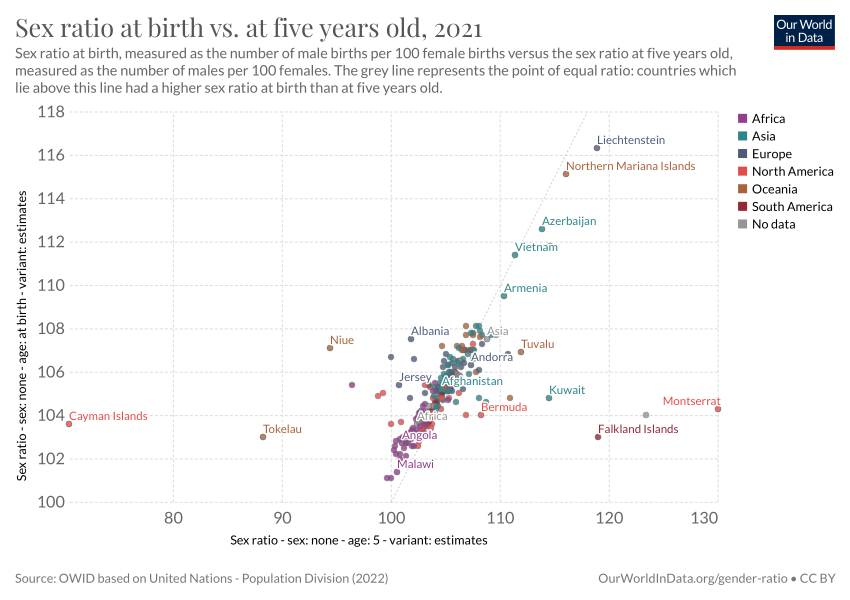
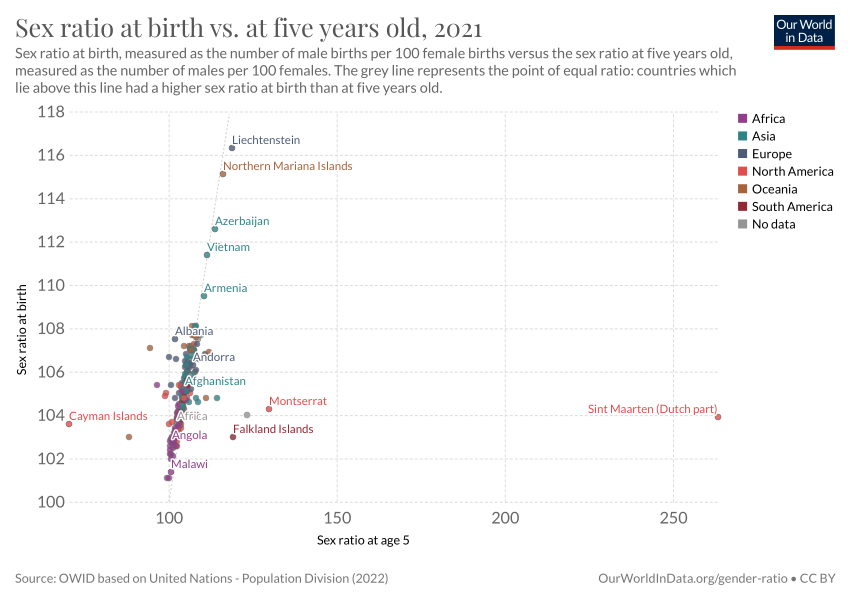
Deploy 2022-09-14T12:46:13.290Z Updating chart sex-ratio-at-birth-vs-five-years-old

diff --git a/co2-emissions.html b/co2-emissions.html
@@ -1,4 +1,4 @@
-<!doctype html><html><head><meta name="viewport" content="width=device-width, initial-scale=1"/><title>CO2 emissions - Our World in Data</title><meta name="description" content="How much CO2 does the world emit? Which countries emit the most?"/><link rel="canonical" href="https://ourworldindata.org/co2-emissions"/><link rel="alternate" type="application/atom+xml" href="/atom.xml"/><link rel="apple-touch-icon" sizes="180x180" href="/apple-touch-icon.png"/><meta property="fb:app_id" content="1149943818390250"/><meta property="og:url" content="https://ourworldindata.org/co2-emissions"/><meta property="og:title" content="CO2 emissions"/><meta property="og:description" content="How much CO2 does the world emit? Which countries emit the most?"/><meta property="og:image" content="https://ourworldindata.org/uploads/2022/03/Screenshot-2022-03-04-at-16.51.31-768x480.png"/><meta property="og:site_name" content="Our World in Data"/><meta name="twitter:card" content="summary_large_image"/><meta name="twitter:site" content="@OurWorldInData"/><meta name="twitter:creator" content="@OurWorldInData"/><meta name="twitter:title" content="CO2 emissions"/><meta name="twitter:description" content="How much CO2 does the world emit? Which countries emit the most?"/><meta name="twitter:image" content="https://ourworldindata.org/uploads/2022/03/Screenshot-2022-03-04-at-16.51.31-768x480.png"/><link href="https://fonts.googleapis.com/css?family=Lato:300,400,400i,700,700i|Playfair+Display:400,700&amp;display=swap" rel="stylesheet"/><link rel="stylesheet" href="https://ourworldindata.org/assets/commons.css"/><link rel="stylesheet" href="https://ourworldindata.org/assets/owid.css"/><meta name="citation_title" content="CO₂ and Greenhouse Gas Emissions"/><meta name="citation_fulltext_html_url" content="https://ourworldindata.org/co2-and-other-greenhouse-gas-emissions"/><meta name="citation_fulltext_world_readable" content=""/><meta name="citation_publication_date" content="2020/05/11"/><meta name="citation_journal_title" content="Our World in Data"/><meta name="citation_journal_abbrev" content="Our World in Data"/><meta name="citation_author" content="Hannah Ritchie"/><meta name="citation_author" content="Max Roser"/><meta name="citation_author" content="Pablo Rosado"/></head><body class=""><header class="site-header"><div class="wrapper site-navigation-bar"><div class="site-logo"><a href="/">Our World<br/> in Data</a></div><nav class="site-navigation"><div class="topics-button-wrapper"><a href="/#entries" class="topics-button"><div class="label">Articles <br/><strong>by topic</strong></div><div class="icon"><svg width="12" height="6"><path d="M0,0 L12,0 L6,6 Z" fill="currentColor"></path></svg></div></a></div><div><div class="site-primary-navigation"><form class="HeaderSearch" action="/search" method="GET"><input type="search" name="q" placeholder="Search..."/><div class="icon"><svg aria-hidden="true" focusable="false" data-prefix="fas" data-icon="magnifying-glass" class="svg-inline--fa fa-magnifying-glass " role="img" xmlns="http://www.w3.org/2000/svg" viewBox="0 0 512 512"><path fill="currentColor" d="M500.3 443.7l-119.7-119.7c27.22-40.41 40.65-90.9 33.46-144.7C401.8 87.79 326.8 13.32 235.2 1.723C99.01-15.51-15.51 99.01 1.724 235.2c11.6 91.64 86.08 166.7 177.6 178.9c53.8 7.189 104.3-6.236 144.7-33.46l119.7 119.7c15.62 15.62 40.95 15.62 56.57 0C515.9 484.7 515.9 459.3 500.3 443.7zM79.1 208c0-70.58 57.42-128 128-128s128 57.42 128 128c0 70.58-57.42 128-128 128S79.1 278.6 79.1 208z"></path></svg></div></form><ul class="site-primary-links"><li><a href="/blog" data-track-note="header-navigation">Latest</a></li><li><a href="/about" data-track-note="header-navigation">About</a></li><li><a href="/donate" data-track-note="header-navigation">Donate</a></li></ul></div><div class="site-secondary-navigation"><ul class="site-secondary-links"><li><a href="/charts" data-track-note="header-navigation">All charts</a></li><li><a href="https://sdg-tracker.org" data-track-note="header-navigation">Sustainable Development Goals Tracker</a></li></ul></div></div></nav><div class="header-logos-wrapper"><a href="https://www.oxfordmartin.ox.ac.uk/global-development" class="oxford-logo"><img src="https://ourworldindata.org/oms-logo.svg" alt="Oxford Martin School logo"/></a><a href="https://global-change-data-lab.org/" class="gcdl-logo"><img src="https://ourworldindata.org/gcdl-logo.svg" alt="Global Change Data Lab logo"/></a></div><div class="mobile-site-navigation"><button data-track-note="mobile-search-button"><svg aria-hidden="true" focusable="false" data-prefix="fas" data-icon="magnifying-glass" class="svg-inline--fa fa-magnifying-glass " role="img" xmlns="http://www.w3.org/2000/svg" viewBox="0 0 512 512"><path fill="currentColor" d="M500.3 443.7l-119.7-119.7c27.22-40.41 40.65-90.9 33.46-144.7C401.8 87.79 326.8 13.32 235.2 1.723C99.01-15.51-15.51 99.01 1.724 235.2c11.6 91.64 86.08 166.7 177.6 178.9c53.8 7.189 104.3-6.236 144.7-33.46l119.7 119.7c15.62 15.62 40.95 15.62 56.57 0C515.9 484.7 515.9 459.3 500.3 443.7zM79.1 208c0-70.58 57.42-128 128-128s128 57.42 128 128c0 70.58-57.42 128-128 128S79.1 278.6 79.1 208z"></path></svg></button><button data-track-note="mobile-newsletter-button"><svg aria-hidden="true" focusable="false" data-prefix="fas" data-icon="envelope-open-text" class="svg-inline--fa fa-envelope-open-text " role="img" xmlns="http://www.w3.org/2000/svg" viewBox="0 0 512 512"><path fill="currentColor" d="M256 417.1c-16.38 0-32.88-4.1-46.88-15.12L0 250.9v213.1C0 490.5 21.5 512 48 512h416c26.5 0 48-21.5 48-47.1V250.9l-209.1 151.1C288.9 412 272.4 417.1 256 417.1zM493.6 163C484.8 156 476.4 149.5 464 140.1v-44.12c0-26.5-21.5-48-48-48l-77.5 .0016c-3.125-2.25-5.875-4.25-9.125-6.5C312.6 29.13 279.3-.3732 256 .0018C232.8-.3732 199.4 29.13 182.6 41.5c-3.25 2.25-6 4.25-9.125 6.5L96 48c-26.5 0-48 21.5-48 48v44.12C35.63 149.5 27.25 156 18.38 163C6.75 172 0 186 0 200.8v10.62l96 69.37V96h320v184.7l96-69.37V200.8C512 186 505.3 172 493.6 163zM176 255.1h160c8.836 0 16-7.164 16-15.1c0-8.838-7.164-16-16-16h-160c-8.836 0-16 7.162-16 16C160 248.8 167.2 255.1 176 255.1zM176 191.1h160c8.836 0 16-7.164 16-16c0-8.838-7.164-15.1-16-15.1h-160c-8.836 0-16 7.162-16 15.1C160 184.8 167.2 191.1 176 191.1z"></path></svg></button><button data-track-note="mobile-hamburger-button"><svg aria-hidden="true" focusable="false" data-prefix="fas" data-icon="bars" class="svg-inline--fa fa-bars " role="img" xmlns="http://www.w3.org/2000/svg" viewBox="0 0 448 512"><path fill="currentColor" d="M0 96C0 78.33 14.33 64 32 64H416C433.7 64 448 78.33 448 96C448 113.7 433.7 128 416 128H32C14.33 128 0 113.7 0 96zM0 256C0 238.3 14.33 224 32 224H416C433.7 224 448 238.3 448 256C448 273.7 433.7 288 416 288H32C14.33 288 0 273.7 0 256zM416 448H32C14.33 448 0 433.7 0 416C0 398.3 14.33 384 32 384H416C433.7 384 448 398.3 448 416C448 433.7 433.7 448 416 448z"></path></svg></button></div></div></header><div class="alert-banner"><div class="content"><div class="text"><strong>COVID-19 vaccinations, cases, excess mortality, and much more</strong></div><a href="/coronavirus#explore-the-global-situation" data-track-note="covid-banner-click">Explore our COVID-19 data</a></div></div><main><article class="page with-sidebar large-banner"><div class="offset-header"><header class="article-header"><div class="article-titles"><h1 class="entry-title">CO2 emissions</h1><div class="breadcrumb"><a href="/">Home</a><span class="separator"><svg aria-hidden="true" focusable="false" data-prefix="fas" data-icon="angle-right" class="svg-inline--fa fa-angle-right " role="img" xmlns="http://www.w3.org/2000/svg" viewBox="0 0 256 512"><path fill="currentColor" d="M64 448c-8.188 0-16.38-3.125-22.62-9.375c-12.5-12.5-12.5-32.75 0-45.25L178.8 256L41.38 118.6c-12.5-12.5-12.5-32.75 0-45.25s32.75-12.5 45.25 0l160 160c12.5 12.5 12.5 32.75 0 45.25l-160 160C80.38 444.9 72.19 448 64 448z"></path></svg></span><a data-track-note="breadcrumb" href="/co2-and-other-greenhouse-gas-emissions">CO₂ and GHG Emissions</a><span class="separator"><svg aria-hidden="true" focusable="false" data-prefix="fas" data-icon="angle-right" class="svg-inline--fa fa-angle-right " role="img" xmlns="http://www.w3.org/2000/svg" viewBox="0 0 256 512"><path fill="currentColor" d="M64 448c-8.188 0-16.38-3.125-22.62-9.375c-12.5-12.5-12.5-32.75 0-45.25L178.8 256L41.38 118.6c-12.5-12.5-12.5-32.75 0-45.25s32.75-12.5 45.25 0l160 160c12.5 12.5 12.5 32.75 0 45.25l-160 160C80.38 444.9 72.19 448 64 448z"></path></svg></span><span>CO₂ emissions</span></div></div><div class="authors-byline"><a href="/team">by Hannah Ritchie and Max Roser</a></div><div class="tools"><a href="#licence"><svg aria-hidden="true" focusable="false" data-prefix="fab" data-icon="creative-commons" class="svg-inline--fa fa-creative-commons " role="img" xmlns="http://www.w3.org/2000/svg" viewBox="0 0 496 512"><path fill="currentColor" d="M245.8 214.9l-33.22 17.28c-9.43-19.58-25.24-19.93-27.46-19.93-22.13 0-33.22 14.61-33.22 43.84 0 23.57 9.21 43.84 33.22 43.84 14.47 0 24.65-7.09 30.57-21.26l30.55 15.5c-6.17 11.51-25.69 38.98-65.1 38.98-22.6 0-73.96-10.32-73.96-77.05 0-58.69 43-77.06 72.63-77.06 30.72-.01 52.7 11.95 65.99 35.86zm143.1 0l-32.78 17.28c-9.5-19.77-25.72-19.93-27.9-19.93-22.14 0-33.22 14.61-33.22 43.84 0 23.55 9.23 43.84 33.22 43.84 14.45 0 24.65-7.09 30.54-21.26l31 15.5c-2.1 3.75-21.39 38.98-65.09 38.98-22.69 0-73.96-9.87-73.96-77.05 0-58.67 42.97-77.06 72.63-77.06 30.71-.01 52.58 11.95 65.56 35.86zM247.6 8.05C104.7 8.05 0 123.1 0 256c0 138.5 113.6 248 247.6 248 129.9 0 248.4-100.9 248.4-248 0-137.9-106.6-248-248.4-248zm.87 450.8c-112.5 0-203.7-93.04-203.7-202.8 0-105.4 85.43-203.3 203.7-203.3 112.5 0 202.8 89.46 202.8 203.3-.01 121.7-99.68 202.8-202.8 202.8z"></path></svg>Reuse our work freely</a><a href="#citation"><svg aria-hidden="true" focusable="false" data-prefix="fas" data-icon="book" class="svg-inline--fa fa-book " role="img" xmlns="http://www.w3.org/2000/svg" viewBox="0 0 448 512"><path fill="currentColor" d="M448 336v-288C448 21.49 426.5 0 400 0H96C42.98 0 0 42.98 0 96v320c0 53.02 42.98 96 96 96h320c17.67 0 32-14.33 32-31.1c0-11.72-6.607-21.52-16-27.1v-81.36C441.8 362.8 448 350.2 448 336zM143.1 128h192C344.8 128 352 135.2 352 144C352 152.8 344.8 160 336 160H143.1C135.2 160 128 152.8 128 144C128 135.2 135.2 128 143.1 128zM143.1 192h192C344.8 192 352 199.2 352 208C352 216.8 344.8 224 336 224H143.1C135.2 224 128 216.8 128 208C128 199.2 135.2 192 143.1 192zM384 448H96c-17.67 0-32-14.33-32-32c0-17.67 14.33-32 32-32h288V448z"></path></svg>Cite this research</a></div></header></div><div class="offset-subnavigation"><div class="site-subnavigation"><div class="site-subnavigation-scroll"><ul class="site-subnavigation-links"><li class="highlight"><a href="/co2-and-other-greenhouse-gas-emissions" data-track-note="co2-subnav-co2-and-ghg-emissions">CO₂ and GHG Emissions<svg aria-hidden="true" focusable="false" data-prefix="fas" data-icon="chevron-left" class="svg-inline--fa fa-chevron-left " role="img" xmlns="http://www.w3.org/2000/svg" viewBox="0 0 320 512"><path fill="currentColor" d="M224 480c-8.188 0-16.38-3.125-22.62-9.375l-192-192c-12.5-12.5-12.5-32.75 0-45.25l192-192c12.5-12.5 32.75-12.5 45.25 0s12.5 32.75 0 45.25L77.25 256l169.4 169.4c12.5 12.5 12.5 32.75 0 45.25C240.4 476.9 232.2 480 224 480z"></path></svg></a></li><li class=""><a href="/co2-and-other-greenhouse-gas-emissions#co2-and-greenhouse-gas-emissions-country-profiles" data-track-note="co2-subnav-by-country">By country</a></li><li class=""><a href="/explorers/co2" data-track-note="co2-subnav-co2-data-explorer">Data explorer</a></li><li class="current"><a href="/co2-emissions" data-track-note="co2-subnav-co2-emissions">CO₂ emissions</a></li><li class=""><a href="/emissions-by-fuel" data-track-note="co2-subnav-by-fuel">CO₂ by fuel</a></li><li class=""><a href="/greenhouse-gas-emissions" data-track-note="co2-subnav-ghg-emissions">GHG emissions</a></li><li class=""><a href="/emissions-by-sector" data-track-note="co2-subnav-by-sector">By sector</a></li><li class=""><a href="/atmospheric-concentrations" data-track-note="co2-subnav-atm-concentrations">Atmospheric concentrations</a></li><li class=""><a href="/explorers/climate-change" data-track-note="co2-subnav-climate-impacts">Climate impacts</a></li></ul></div></div></div><div class="content-wrapper"><div class="toc-wrapper"><aside class="entry-sidebar"><div class="sticky-sentinel"></div><nav class="entry-toc"><ul><li><a href="#" data-track-note="toc-header">CO2 emissions</a></li><li class="section"><a href="#global-co2-emissions-from-fossil-fuels" data-track-note="toc-link">Global CO2 emissions from fossil fuels</a></li><li class="subsection"><a href="#global-co2-emissions-from-fossil-fuels-global-co2-emissions-from-fossil-fuels" data-track-note="toc-link">Global CO2 emissions from fossil fuels</a></li><li class="subsection"><a href="#global-co2-emissions-from-fossil-fuels-and-land-use-change" data-track-note="toc-link">Global CO2 emissions from fossil fuels and land use change</a></li><li class="subsection"><a href="#co2-emissions-by-region" data-track-note="toc-link">CO2 emissions by region</a></li><li class="section"><a href="#per-capita-co2-emissions" data-track-note="toc-link">Per capita CO2 emissions</a></li><li class="section"><a href="#annual-co2-emissions" data-track-note="toc-link">Annual CO2 emissions</a></li><li class="section"><a href="#annual-change-in-co2-emissions" data-track-note="toc-link">Annual change in CO2 emissions</a></li><li class="section"><a href="#cumulative-co2-emissions" data-track-note="toc-link">Cumulative CO2 emissions</a></li><li class="section"><a href="#consumption-based-trade-adjusted-emissions" data-track-note="toc-link">Consumption-based (trade-adjusted) emissions</a></li><li class="section"><a href="#decoupling-co2-emissions-from-economic-growth" data-track-note="toc-link">Decoupling CO₂ emissions from economic growth</a></li><li class="section"><a href="#global-inequalities-in-co2-emissions" data-track-note="toc-link">Global inequalities in CO2 emissions</a></li><li class="subsection"><a href="#global-inequalities-by-production" data-track-note="toc-link">Global inequalities by production</a></li><li class="subsection"><a href="#global-inequalities-by-consumption" data-track-note="toc-link">Global inequalities by consumption</a></li><li class="section"><a href="#how-do-we-measure-or-estimate-co2-emissions" data-track-note="toc-link">How do we measure or estimate CO2 emissions?</a></li><li class="section"><a href="#endnotes" data-track-note="toc-link">Endnotes</a></li><li class="section"><a href="#licence" data-track-note="toc-link">Licence</a></li><li class="section"><a href="#citation" data-track-note="toc-link">Citation</a></li></ul></nav><div class="toggle-toc"><button data-track-note="page-toggle-toc" aria-label="Open table of contents"><svg aria-hidden="true" focusable="false" data-prefix="fas" data-icon="bars" class="svg-inline--fa fa-bars " role="img" xmlns="http://www.w3.org/2000/svg" viewBox="0 0 448 512"><path fill="currentColor" d="M0 96C0 78.33 14.33 64 32 64H416C433.7 64 448 78.33 448 96C448 113.7 433.7 128 416 128H32C14.33 128 0 113.7 0 96zM0 256C0 238.3 14.33 224 32 224H416C433.7 224 448 238.3 448 256C448 273.7 433.7 288 416 288H32C14.33 288 0 273.7 0 256zM416 448H32C14.33 448 0 433.7 0 416C0 398.3 14.33 384 32 384H416C433.7 384 448 398.3 448 416C448 433.7 433.7 448 416 448z"></path></svg><span class="label">Contents</span></button></div></aside></div><div class="offset-content"><div class="content-and-footnotes"><div class="article-content"><section><div class="wp-block-columns is-style-sticky-right"><div class="wp-block-column"><p>You can&nbsp;<strong><a href="https://github.com/owid/co2-data">download</a></strong>&nbsp;our complete <em>Our World in Data</em> CO<sub>2</sub> and Greenhouse Gas Emissions database.</p><hr class="wp-block-separator"><p>Carbon dioxide emissions are the primary driver of global climate change. It’s widely recognised that to avoid the worst impacts of climate change, the world needs to urgently reduce emissions. But, how this responsibility is shared between regions, countries, and individuals has been an endless point of contention in international discussions. </p><p>This debate arises from the various ways in which emissions are compared: as annual emissions by country; emissions per person; historical contributions; and whether they adjust for traded goods and services. These metrics can tell very different stories. </p><p>We teamed up with the YouTube channel, <em>Kurzgesagt</em>, to produce a video which explored these different metrics in detail: <a href="https://www.youtube.com/watch?v=ipVxxxqwBQw">‘Who is responsible for climate change? – Who needs to fix it?’</a>. All of the data and research featured in this video is contained in this article: below we look in detail at the many ways emissions are broken down.</p><div class="wp-container-6321ca2c39565 wp-block-group">    <div class="block-wrapper"><div class="wp-block-owid-prominent-link with-image" data-no-lightbox="true" data-style="is-style-thin" data-title="&nbsp;‘Who is responsible for climate change? – Who needs to fix it?’"><a href="https://www.youtube.com/watch?v=ipVxxxqwBQw"><figure><img width="768" height="433" src="https://ourworldindata.org/uploads/2020/06/CO2-Kurzgesagt-768x433.png" class="attachment-medium_large size-medium_large" alt="Co2 kurzgesagt" loading="lazy" srcset="https://ourworldindata.org/uploads/2020/06/CO2-Kurzgesagt-768x433.png 768w, https://ourworldindata.org/uploads/2020/06/CO2-Kurzgesagt-400x225.png 400w, https://ourworldindata.org/uploads/2020/06/CO2-Kurzgesagt-800x451.png 800w, https://ourworldindata.org/uploads/2020/06/CO2-Kurzgesagt-150x84.png 150w, https://ourworldindata.org/uploads/2020/06/CO2-Kurzgesagt.png 1422w" sizes="(max-width: 768px) 100vw, 768px" data-high-res-src="https://ourworldindata.org/uploads/2020/06/CO2-Kurzgesagt.png"></figure><div class="content-wrapper"><div class="content">
+<!doctype html><html><head><meta name="viewport" content="width=device-width, initial-scale=1"/><title>CO2 emissions - Our World in Data</title><meta name="description" content="How much CO2 does the world emit? Which countries emit the most?"/><link rel="canonical" href="https://ourworldindata.org/co2-emissions"/><link rel="alternate" type="application/atom+xml" href="/atom.xml"/><link rel="apple-touch-icon" sizes="180x180" href="/apple-touch-icon.png"/><meta property="fb:app_id" content="1149943818390250"/><meta property="og:url" content="https://ourworldindata.org/co2-emissions"/><meta property="og:title" content="CO2 emissions"/><meta property="og:description" content="How much CO2 does the world emit? Which countries emit the most?"/><meta property="og:image" content="https://ourworldindata.org/uploads/2022/03/Screenshot-2022-03-04-at-16.51.31-768x480.png"/><meta property="og:site_name" content="Our World in Data"/><meta name="twitter:card" content="summary_large_image"/><meta name="twitter:site" content="@OurWorldInData"/><meta name="twitter:creator" content="@OurWorldInData"/><meta name="twitter:title" content="CO2 emissions"/><meta name="twitter:description" content="How much CO2 does the world emit? Which countries emit the most?"/><meta name="twitter:image" content="https://ourworldindata.org/uploads/2022/03/Screenshot-2022-03-04-at-16.51.31-768x480.png"/><link href="https://fonts.googleapis.com/css?family=Lato:300,400,400i,700,700i|Playfair+Display:400,700&amp;display=swap" rel="stylesheet"/><link rel="stylesheet" href="https://ourworldindata.org/assets/commons.css"/><link rel="stylesheet" href="https://ourworldindata.org/assets/owid.css"/><meta name="citation_title" content="CO₂ and Greenhouse Gas Emissions"/><meta name="citation_fulltext_html_url" content="https://ourworldindata.org/co2-and-other-greenhouse-gas-emissions"/><meta name="citation_fulltext_world_readable" content=""/><meta name="citation_publication_date" content="2020/05/11"/><meta name="citation_journal_title" content="Our World in Data"/><meta name="citation_journal_abbrev" content="Our World in Data"/><meta name="citation_author" content="Hannah Ritchie"/><meta name="citation_author" content="Max Roser"/><meta name="citation_author" content="Pablo Rosado"/></head><body class=""><header class="site-header"><div class="wrapper site-navigation-bar"><div class="site-logo"><a href="/">Our World<br/> in Data</a></div><nav class="site-navigation"><div class="topics-button-wrapper"><a href="/#entries" class="topics-button"><div class="label">Articles <br/><strong>by topic</strong></div><div class="icon"><svg width="12" height="6"><path d="M0,0 L12,0 L6,6 Z" fill="currentColor"></path></svg></div></a></div><div><div class="site-primary-navigation"><form class="HeaderSearch" action="/search" method="GET"><input type="search" name="q" placeholder="Search..."/><div class="icon"><svg aria-hidden="true" focusable="false" data-prefix="fas" data-icon="magnifying-glass" class="svg-inline--fa fa-magnifying-glass " role="img" xmlns="http://www.w3.org/2000/svg" viewBox="0 0 512 512"><path fill="currentColor" d="M500.3 443.7l-119.7-119.7c27.22-40.41 40.65-90.9 33.46-144.7C401.8 87.79 326.8 13.32 235.2 1.723C99.01-15.51-15.51 99.01 1.724 235.2c11.6 91.64 86.08 166.7 177.6 178.9c53.8 7.189 104.3-6.236 144.7-33.46l119.7 119.7c15.62 15.62 40.95 15.62 56.57 0C515.9 484.7 515.9 459.3 500.3 443.7zM79.1 208c0-70.58 57.42-128 128-128s128 57.42 128 128c0 70.58-57.42 128-128 128S79.1 278.6 79.1 208z"></path></svg></div></form><ul class="site-primary-links"><li><a href="/blog" data-track-note="header-navigation">Latest</a></li><li><a href="/about" data-track-note="header-navigation">About</a></li><li><a href="/donate" data-track-note="header-navigation">Donate</a></li></ul></div><div class="site-secondary-navigation"><ul class="site-secondary-links"><li><a href="/charts" data-track-note="header-navigation">All charts</a></li><li><a href="https://sdg-tracker.org" data-track-note="header-navigation">Sustainable Development Goals Tracker</a></li></ul></div></div></nav><div class="header-logos-wrapper"><a href="https://www.oxfordmartin.ox.ac.uk/global-development" class="oxford-logo"><img src="https://ourworldindata.org/oms-logo.svg" alt="Oxford Martin School logo"/></a><a href="https://global-change-data-lab.org/" class="gcdl-logo"><img src="https://ourworldindata.org/gcdl-logo.svg" alt="Global Change Data Lab logo"/></a></div><div class="mobile-site-navigation"><button data-track-note="mobile-search-button"><svg aria-hidden="true" focusable="false" data-prefix="fas" data-icon="magnifying-glass" class="svg-inline--fa fa-magnifying-glass " role="img" xmlns="http://www.w3.org/2000/svg" viewBox="0 0 512 512"><path fill="currentColor" d="M500.3 443.7l-119.7-119.7c27.22-40.41 40.65-90.9 33.46-144.7C401.8 87.79 326.8 13.32 235.2 1.723C99.01-15.51-15.51 99.01 1.724 235.2c11.6 91.64 86.08 166.7 177.6 178.9c53.8 7.189 104.3-6.236 144.7-33.46l119.7 119.7c15.62 15.62 40.95 15.62 56.57 0C515.9 484.7 515.9 459.3 500.3 443.7zM79.1 208c0-70.58 57.42-128 128-128s128 57.42 128 128c0 70.58-57.42 128-128 128S79.1 278.6 79.1 208z"></path></svg></button><button data-track-note="mobile-newsletter-button"><svg aria-hidden="true" focusable="false" data-prefix="fas" data-icon="envelope-open-text" class="svg-inline--fa fa-envelope-open-text " role="img" xmlns="http://www.w3.org/2000/svg" viewBox="0 0 512 512"><path fill="currentColor" d="M256 417.1c-16.38 0-32.88-4.1-46.88-15.12L0 250.9v213.1C0 490.5 21.5 512 48 512h416c26.5 0 48-21.5 48-47.1V250.9l-209.1 151.1C288.9 412 272.4 417.1 256 417.1zM493.6 163C484.8 156 476.4 149.5 464 140.1v-44.12c0-26.5-21.5-48-48-48l-77.5 .0016c-3.125-2.25-5.875-4.25-9.125-6.5C312.6 29.13 279.3-.3732 256 .0018C232.8-.3732 199.4 29.13 182.6 41.5c-3.25 2.25-6 4.25-9.125 6.5L96 48c-26.5 0-48 21.5-48 48v44.12C35.63 149.5 27.25 156 18.38 163C6.75 172 0 186 0 200.8v10.62l96 69.37V96h320v184.7l96-69.37V200.8C512 186 505.3 172 493.6 163zM176 255.1h160c8.836 0 16-7.164 16-15.1c0-8.838-7.164-16-16-16h-160c-8.836 0-16 7.162-16 16C160 248.8 167.2 255.1 176 255.1zM176 191.1h160c8.836 0 16-7.164 16-16c0-8.838-7.164-15.1-16-15.1h-160c-8.836 0-16 7.162-16 15.1C160 184.8 167.2 191.1 176 191.1z"></path></svg></button><button data-track-note="mobile-hamburger-button"><svg aria-hidden="true" focusable="false" data-prefix="fas" data-icon="bars" class="svg-inline--fa fa-bars " role="img" xmlns="http://www.w3.org/2000/svg" viewBox="0 0 448 512"><path fill="currentColor" d="M0 96C0 78.33 14.33 64 32 64H416C433.7 64 448 78.33 448 96C448 113.7 433.7 128 416 128H32C14.33 128 0 113.7 0 96zM0 256C0 238.3 14.33 224 32 224H416C433.7 224 448 238.3 448 256C448 273.7 433.7 288 416 288H32C14.33 288 0 273.7 0 256zM416 448H32C14.33 448 0 433.7 0 416C0 398.3 14.33 384 32 384H416C433.7 384 448 398.3 448 416C448 433.7 433.7 448 416 448z"></path></svg></button></div></div></header><div class="alert-banner"><div class="content"><div class="text"><strong>COVID-19 vaccinations, cases, excess mortality, and much more</strong></div><a href="/coronavirus#explore-the-global-situation" data-track-note="covid-banner-click">Explore our COVID-19 data</a></div></div><main><article class="page with-sidebar large-banner"><div class="offset-header"><header class="article-header"><div class="article-titles"><h1 class="entry-title">CO2 emissions</h1><div class="breadcrumb"><a href="/">Home</a><span class="separator"><svg aria-hidden="true" focusable="false" data-prefix="fas" data-icon="angle-right" class="svg-inline--fa fa-angle-right " role="img" xmlns="http://www.w3.org/2000/svg" viewBox="0 0 256 512"><path fill="currentColor" d="M64 448c-8.188 0-16.38-3.125-22.62-9.375c-12.5-12.5-12.5-32.75 0-45.25L178.8 256L41.38 118.6c-12.5-12.5-12.5-32.75 0-45.25s32.75-12.5 45.25 0l160 160c12.5 12.5 12.5 32.75 0 45.25l-160 160C80.38 444.9 72.19 448 64 448z"></path></svg></span><a data-track-note="breadcrumb" href="/co2-and-other-greenhouse-gas-emissions">CO₂ and GHG Emissions</a><span class="separator"><svg aria-hidden="true" focusable="false" data-prefix="fas" data-icon="angle-right" class="svg-inline--fa fa-angle-right " role="img" xmlns="http://www.w3.org/2000/svg" viewBox="0 0 256 512"><path fill="currentColor" d="M64 448c-8.188 0-16.38-3.125-22.62-9.375c-12.5-12.5-12.5-32.75 0-45.25L178.8 256L41.38 118.6c-12.5-12.5-12.5-32.75 0-45.25s32.75-12.5 45.25 0l160 160c12.5 12.5 12.5 32.75 0 45.25l-160 160C80.38 444.9 72.19 448 64 448z"></path></svg></span><span>CO₂ emissions</span></div></div><div class="authors-byline"><a href="/team">by Hannah Ritchie and Max Roser</a></div><div class="tools"><a href="#licence"><svg aria-hidden="true" focusable="false" data-prefix="fab" data-icon="creative-commons" class="svg-inline--fa fa-creative-commons " role="img" xmlns="http://www.w3.org/2000/svg" viewBox="0 0 496 512"><path fill="currentColor" d="M245.8 214.9l-33.22 17.28c-9.43-19.58-25.24-19.93-27.46-19.93-22.13 0-33.22 14.61-33.22 43.84 0 23.57 9.21 43.84 33.22 43.84 14.47 0 24.65-7.09 30.57-21.26l30.55 15.5c-6.17 11.51-25.69 38.98-65.1 38.98-22.6 0-73.96-10.32-73.96-77.05 0-58.69 43-77.06 72.63-77.06 30.72-.01 52.7 11.95 65.99 35.86zm143.1 0l-32.78 17.28c-9.5-19.77-25.72-19.93-27.9-19.93-22.14 0-33.22 14.61-33.22 43.84 0 23.55 9.23 43.84 33.22 43.84 14.45 0 24.65-7.09 30.54-21.26l31 15.5c-2.1 3.75-21.39 38.98-65.09 38.98-22.69 0-73.96-9.87-73.96-77.05 0-58.67 42.97-77.06 72.63-77.06 30.71-.01 52.58 11.95 65.56 35.86zM247.6 8.05C104.7 8.05 0 123.1 0 256c0 138.5 113.6 248 247.6 248 129.9 0 248.4-100.9 248.4-248 0-137.9-106.6-248-248.4-248zm.87 450.8c-112.5 0-203.7-93.04-203.7-202.8 0-105.4 85.43-203.3 203.7-203.3 112.5 0 202.8 89.46 202.8 203.3-.01 121.7-99.68 202.8-202.8 202.8z"></path></svg>Reuse our work freely</a><a href="#citation"><svg aria-hidden="true" focusable="false" data-prefix="fas" data-icon="book" class="svg-inline--fa fa-book " role="img" xmlns="http://www.w3.org/2000/svg" viewBox="0 0 448 512"><path fill="currentColor" d="M448 336v-288C448 21.49 426.5 0 400 0H96C42.98 0 0 42.98 0 96v320c0 53.02 42.98 96 96 96h320c17.67 0 32-14.33 32-31.1c0-11.72-6.607-21.52-16-27.1v-81.36C441.8 362.8 448 350.2 448 336zM143.1 128h192C344.8 128 352 135.2 352 144C352 152.8 344.8 160 336 160H143.1C135.2 160 128 152.8 128 144C128 135.2 135.2 128 143.1 128zM143.1 192h192C344.8 192 352 199.2 352 208C352 216.8 344.8 224 336 224H143.1C135.2 224 128 216.8 128 208C128 199.2 135.2 192 143.1 192zM384 448H96c-17.67 0-32-14.33-32-32c0-17.67 14.33-32 32-32h288V448z"></path></svg>Cite this research</a></div></header></div><div class="offset-subnavigation"><div class="site-subnavigation"><div class="site-subnavigation-scroll"><ul class="site-subnavigation-links"><li class="highlight"><a href="/co2-and-other-greenhouse-gas-emissions" data-track-note="co2-subnav-co2-and-ghg-emissions">CO₂ and GHG Emissions<svg aria-hidden="true" focusable="false" data-prefix="fas" data-icon="chevron-left" class="svg-inline--fa fa-chevron-left " role="img" xmlns="http://www.w3.org/2000/svg" viewBox="0 0 320 512"><path fill="currentColor" d="M224 480c-8.188 0-16.38-3.125-22.62-9.375l-192-192c-12.5-12.5-12.5-32.75 0-45.25l192-192c12.5-12.5 32.75-12.5 45.25 0s12.5 32.75 0 45.25L77.25 256l169.4 169.4c12.5 12.5 12.5 32.75 0 45.25C240.4 476.9 232.2 480 224 480z"></path></svg></a></li><li class=""><a href="/co2-and-other-greenhouse-gas-emissions#co2-and-greenhouse-gas-emissions-country-profiles" data-track-note="co2-subnav-by-country">By country</a></li><li class=""><a href="/explorers/co2" data-track-note="co2-subnav-co2-data-explorer">Data explorer</a></li><li class="current"><a href="/co2-emissions" data-track-note="co2-subnav-co2-emissions">CO₂ emissions</a></li><li class=""><a href="/emissions-by-fuel" data-track-note="co2-subnav-by-fuel">CO₂ by fuel</a></li><li class=""><a href="/greenhouse-gas-emissions" data-track-note="co2-subnav-ghg-emissions">GHG emissions</a></li><li class=""><a href="/emissions-by-sector" data-track-note="co2-subnav-by-sector">By sector</a></li><li class=""><a href="/atmospheric-concentrations" data-track-note="co2-subnav-atm-concentrations">Atmospheric concentrations</a></li><li class=""><a href="/explorers/climate-change" data-track-note="co2-subnav-climate-impacts">Climate impacts</a></li></ul></div></div></div><div class="content-wrapper"><div class="toc-wrapper"><aside class="entry-sidebar"><div class="sticky-sentinel"></div><nav class="entry-toc"><ul><li><a href="#" data-track-note="toc-header">CO2 emissions</a></li><li class="section"><a href="#global-co2-emissions-from-fossil-fuels" data-track-note="toc-link">Global CO2 emissions from fossil fuels</a></li><li class="subsection"><a href="#global-co2-emissions-from-fossil-fuels-global-co2-emissions-from-fossil-fuels" data-track-note="toc-link">Global CO2 emissions from fossil fuels</a></li><li class="subsection"><a href="#global-co2-emissions-from-fossil-fuels-and-land-use-change" data-track-note="toc-link">Global CO2 emissions from fossil fuels and land use change</a></li><li class="subsection"><a href="#co2-emissions-by-region" data-track-note="toc-link">CO2 emissions by region</a></li><li class="section"><a href="#per-capita-co2-emissions" data-track-note="toc-link">Per capita CO2 emissions</a></li><li class="section"><a href="#annual-co2-emissions" data-track-note="toc-link">Annual CO2 emissions</a></li><li class="section"><a href="#annual-change-in-co2-emissions" data-track-note="toc-link">Annual change in CO2 emissions</a></li><li class="section"><a href="#cumulative-co2-emissions" data-track-note="toc-link">Cumulative CO2 emissions</a></li><li class="section"><a href="#consumption-based-trade-adjusted-emissions" data-track-note="toc-link">Consumption-based (trade-adjusted) emissions</a></li><li class="section"><a href="#decoupling-co2-emissions-from-economic-growth" data-track-note="toc-link">Decoupling CO₂ emissions from economic growth</a></li><li class="section"><a href="#global-inequalities-in-co2-emissions" data-track-note="toc-link">Global inequalities in CO2 emissions</a></li><li class="subsection"><a href="#global-inequalities-by-production" data-track-note="toc-link">Global inequalities by production</a></li><li class="subsection"><a href="#global-inequalities-by-consumption" data-track-note="toc-link">Global inequalities by consumption</a></li><li class="section"><a href="#how-do-we-measure-or-estimate-co2-emissions" data-track-note="toc-link">How do we measure or estimate CO2 emissions?</a></li><li class="section"><a href="#endnotes" data-track-note="toc-link">Endnotes</a></li><li class="section"><a href="#licence" data-track-note="toc-link">Licence</a></li><li class="section"><a href="#citation" data-track-note="toc-link">Citation</a></li></ul></nav><div class="toggle-toc"><button data-track-note="page-toggle-toc" aria-label="Open table of contents"><svg aria-hidden="true" focusable="false" data-prefix="fas" data-icon="bars" class="svg-inline--fa fa-bars " role="img" xmlns="http://www.w3.org/2000/svg" viewBox="0 0 448 512"><path fill="currentColor" d="M0 96C0 78.33 14.33 64 32 64H416C433.7 64 448 78.33 448 96C448 113.7 433.7 128 416 128H32C14.33 128 0 113.7 0 96zM0 256C0 238.3 14.33 224 32 224H416C433.7 224 448 238.3 448 256C448 273.7 433.7 288 416 288H32C14.33 288 0 273.7 0 256zM416 448H32C14.33 448 0 433.7 0 416C0 398.3 14.33 384 32 384H416C433.7 384 448 398.3 448 416C448 433.7 433.7 448 416 448z"></path></svg><span class="label">Contents</span></button></div></aside></div><div class="offset-content"><div class="content-and-footnotes"><div class="article-content"><section><div class="wp-block-columns is-style-sticky-right"><div class="wp-block-column"><p>You can&nbsp;<strong><a href="https://github.com/owid/co2-data">download</a></strong>&nbsp;our complete <em>Our World in Data</em> CO<sub>2</sub> and Greenhouse Gas Emissions database.</p><hr class="wp-block-separator"><p>Carbon dioxide emissions are the primary driver of global climate change. It’s widely recognised that to avoid the worst impacts of climate change, the world needs to urgently reduce emissions. But, how this responsibility is shared between regions, countries, and individuals has been an endless point of contention in international discussions. </p><p>This debate arises from the various ways in which emissions are compared: as annual emissions by country; emissions per person; historical contributions; and whether they adjust for traded goods and services. These metrics can tell very different stories. </p><p>We teamed up with the YouTube channel, <em>Kurzgesagt</em>, to produce a video which explored these different metrics in detail: <a href="https://www.youtube.com/watch?v=ipVxxxqwBQw">‘Who is responsible for climate change? – Who needs to fix it?’</a>. All of the data and research featured in this video is contained in this article: below we look in detail at the many ways emissions are broken down.</p><div class="wp-container-6321cd32aeb70 wp-block-group">    <div class="block-wrapper"><div class="wp-block-owid-prominent-link with-image" data-no-lightbox="true" data-style="is-style-thin" data-title="&nbsp;‘Who is responsible for climate change? – Who needs to fix it?’"><a href="https://www.youtube.com/watch?v=ipVxxxqwBQw"><figure><img width="768" height="433" src="https://ourworldindata.org/uploads/2020/06/CO2-Kurzgesagt-768x433.png" class="attachment-medium_large size-medium_large" alt="Co2 kurzgesagt" loading="lazy" srcset="https://ourworldindata.org/uploads/2020/06/CO2-Kurzgesagt-768x433.png 768w, https://ourworldindata.org/uploads/2020/06/CO2-Kurzgesagt-400x225.png 400w, https://ourworldindata.org/uploads/2020/06/CO2-Kurzgesagt-800x451.png 800w, https://ourworldindata.org/uploads/2020/06/CO2-Kurzgesagt-150x84.png 150w, https://ourworldindata.org/uploads/2020/06/CO2-Kurzgesagt.png 1422w" sizes="(max-width: 768px) 100vw, 768px" data-high-res-src="https://ourworldindata.org/uploads/2020/06/CO2-Kurzgesagt.png"></figure><div class="content-wrapper"><div class="content">
 
 <p>We teamed up with YouTube channel <em>Kurzgesagt</em> to make a video on comparisons of CO<sub>2</sub> emissions.</p>
 

diff --git a/gender-ratio.html b/gender-ratio.html
@@ -118,7 +118,7 @@
                     </a>
                 </figure></div><div class="wp-block-column"><figure data-grapher-src="https://ourworldindata.org/grapher/sex-ratio-at-birth-vs-five-years-old" class="grapherPreview">
                     <a href="https://ourworldindata.org/grapher/sex-ratio-at-birth-vs-five-years-old" target="_blank">
-                        <div><img src="https://ourworldindata.org/exports/sex-ratio-at-birth-vs-five-years-old_v9_850x600.svg" width="850" height="600" loading="lazy" data-no-lightbox="" alt="Sex ratio at birth vs five years old v9 850x600"></div>
+                        <div><img src="https://ourworldindata.org/exports/sex-ratio-at-birth-vs-five-years-old_v10_850x600.svg" width="850" height="600" loading="lazy" data-no-lightbox="" alt="Sex ratio at birth vs five years old v10 850x600"></div>
                         <div class="interactionNotice">
                             <span class="icon"><svg aria-hidden="true" focusable="false" data-prefix="fas" data-icon="hand-pointer" class="svg-inline--fa fa-hand-pointer fa-w-14" role="img" xmlns="http://www.w3.org/2000/svg" viewBox="0 0 448 617">
     <path fill="currentColor" d="M448,344.59v96a40.36,40.36,0,0,1-1.06,9.16l-32,136A40,40,0,0,1,376,616.59H168a40,40,0,0,1-32.35-16.47l-128-176a40,40,0,0,1,64.7-47.06L104,420.58v-276a40,40,0,0,1,80,0v200h8v-40a40,40,0,1,1,80,0v40h8v-24a40,40,0,1,1,80,0v24h8a40,40,0,1,1,80,0Zm-256,80h-8v96h8Zm88,0h-8v96h8Zm88,0h-8v96h8Z" transform="translate(0 -0.41)"></path>

diff --git a/energy-archive.html b/energy-archive.html
@@ -200,7 +200,7 @@
 
 
 
-<div class="wp-container-6321ca2acd7f3 wp-block-group"><div class="wp-block-group__inner-container">
+<div class="wp-container-6321cd315a4dc wp-block-group"><div class="wp-block-group__inner-container">
 <ul class="covid-country-tiles"><li><a href="https://ourworldindata.org/energy/country/united-states?country=~USA">United States</a></li><li><a href="https://ourworldindata.org/energy/country/united-kingdom?country=~GBR">United Kingdom</a></li><li><a href="https://ourworldindata.org/energy/country/china?country=~CHN">China</a></li><li><a href="https://ourworldindata.org/energy/country/india?country=~IND">India</a></li><li><a href="https://ourworldindata.org/energy/country/brazil?country=~BRA">Brazil</a></li><li><a href="https://ourworldindata.org/energy/country/south-africa?country=~ZAF">South Africa</a></li><li><a href="https://ourworldindata.org/energy/country/germany?country=~DEU">Germany</a></li><li><a href="https://ourworldindata.org/energy/country/spain?country=~ESP">Spain</a></li><li><a href="https://ourworldindata.org/energy/country/france?country=~FRA">France</a></li><li><a href="https://ourworldindata.org/energy/country/canada?country=~CAN">Canada</a></li><li><a href="https://ourworldindata.org/energy/country/australia?country=~AUS">Australia</a></li><li><a href="https://ourworldindata.org/energy/country/sweden?country=~SWE">Sweden</a></li></ul>
 </div></div>
 </div>

diff --git a/co2-and-other-greenhouse-gas-emissions.html b/co2-and-other-greenhouse-gas-emissions.html
@@ -22,7 +22,7 @@
 
 
 
-<div class="wp-container-6321ca2c4b1cf wp-block-group">
+<div class="wp-container-6321cd32bfee1 wp-block-group">
 <ul class="covid-country-tiles"><li><a href="https://ourworldindata.org/co2/country/united-states?country=~USA">United States</a></li><li><a href="https://ourworldindata.org/co2/country/united-kingdom?country=~GBR">United Kingdom</a></li><li><a href="https://ourworldindata.org/co2/country/china?country=~CHN">China</a></li><li><a href="https://ourworldindata.org/co2/country/india?country=~IND">India</a></li><li><a href="https://ourworldindata.org/co2/country/brazil?country=~BRA">Brazil</a></li><li><a href="https://ourworldindata.org/co2/country/south-africa?country=~ZAF">South Africa</a></li><li><a href="https://ourworldindata.org/co2/country/germany?country=~DEU">Germany</a></li><li><a href="https://ourworldindata.org/co2/country/spain?country=~ESP">Spain</a></li><li><a href="https://ourworldindata.org/co2/country/france?country=~FRA">France</a></li><li><a href="https://ourworldindata.org/co2/country/canada?country=~CAN">Canada</a></li><li><a href="https://ourworldindata.org/co2/country/australia?country=~AUS">Australia</a></li><li><a href="https://ourworldindata.org/co2/country/sweden?country=~SWE">Sweden</a></li></ul>
 </div>
 </div>

diff --git a/grapher/sex-ratio-at-birth-vs-five-years-old.html b/grapher/sex-ratio-at-birth-vs-five-years-old.html
@@ -28,6 +28,7 @@
       "Oceania",
       "Curacao",
       "Saint Martin (French part)",
+      "Sint Maarten (Dutch part)",
       "Guernsey",
       "Jersey",
       "Martinique",
@@ -273,7 +274,6 @@
       "Serbia and Montenegro",
       "USSR",
       "Yugoslavia",
-      "Sint Maarten (Dutch part)",
       "Norfolk Island",
       "Pitcairn",
       "Åland Islands",
@@ -329,7 +329,7 @@
     "min": 100
   },
   "minTime": "latest",
-  "version": 9,
+  "version": 10,
   "subtitle": "Sex ratio at birth, measured as the number of male births per 100 female births versus the sex ratio at five years old, measured as the number of males per 100 females. The grey line represents the point of equal ratio: countries which lie above this line had a higher sex ratio at birth than at five years old.",
   "originUrl": "https://ourworldindata.org/gender-ratio",
   "colorScale": {
@@ -337,10 +337,18 @@
   },
   "dimensions": [
     {
+      "display": {
+        "name": "Sex ratio at birth",
+        "includeInTable": true
+      },
       "property": "y",
       "variableId": 520272
     },
     {
+      "display": {
+        "name": "Sex ratio at age 5",
+        "includeInTable": true
+      },
       "property": "x",
       "variableId": 520325
     },

diff --git a/democracy.html b/democracy.html
@@ -1862,7 +1862,7 @@ Justifies democracy characteristics</td>
 
 
 
-<div class="wp-container-6321ca2fa56c1 wp-block-group">
+<div class="wp-container-6321cd36124db wp-block-group">
 <ul><li><strong>full democracy</strong>: comprehensive extent of democracy, few weaknesses</li><li><strong>flawed democracy</strong>: some weaknesses in democratic institutions and culture</li><li><strong>hybrid regime</strong>: serious weaknesses in democratic institutions and culture</li><li><strong>authoritarian regime</strong>: few democratic institutions and little democratic culture</li></ul>
 </div>
 </div>

diff --git a/democracies-measurement.html b/democracies-measurement.html
@@ -531,7 +531,7 @@ Justifies democracy characteristics</td>
 
 
 
-<div class="wp-container-6321ca24ec944 wp-block-group">
+<div class="wp-container-6321cd2b996e3 wp-block-group">
 <ul><li><strong>full democracy</strong>: comprehensive extent of democracy, few weaknesses</li><li><strong>flawed democracy</strong>: some weaknesses in democratic institutions and culture</li><li><strong>hybrid regime</strong>: serious weaknesses in democratic institutions and culture</li><li><strong>authoritarian regime</strong>: few democratic institutions and little democratic culture</li></ul>
 </div>
 </div>
